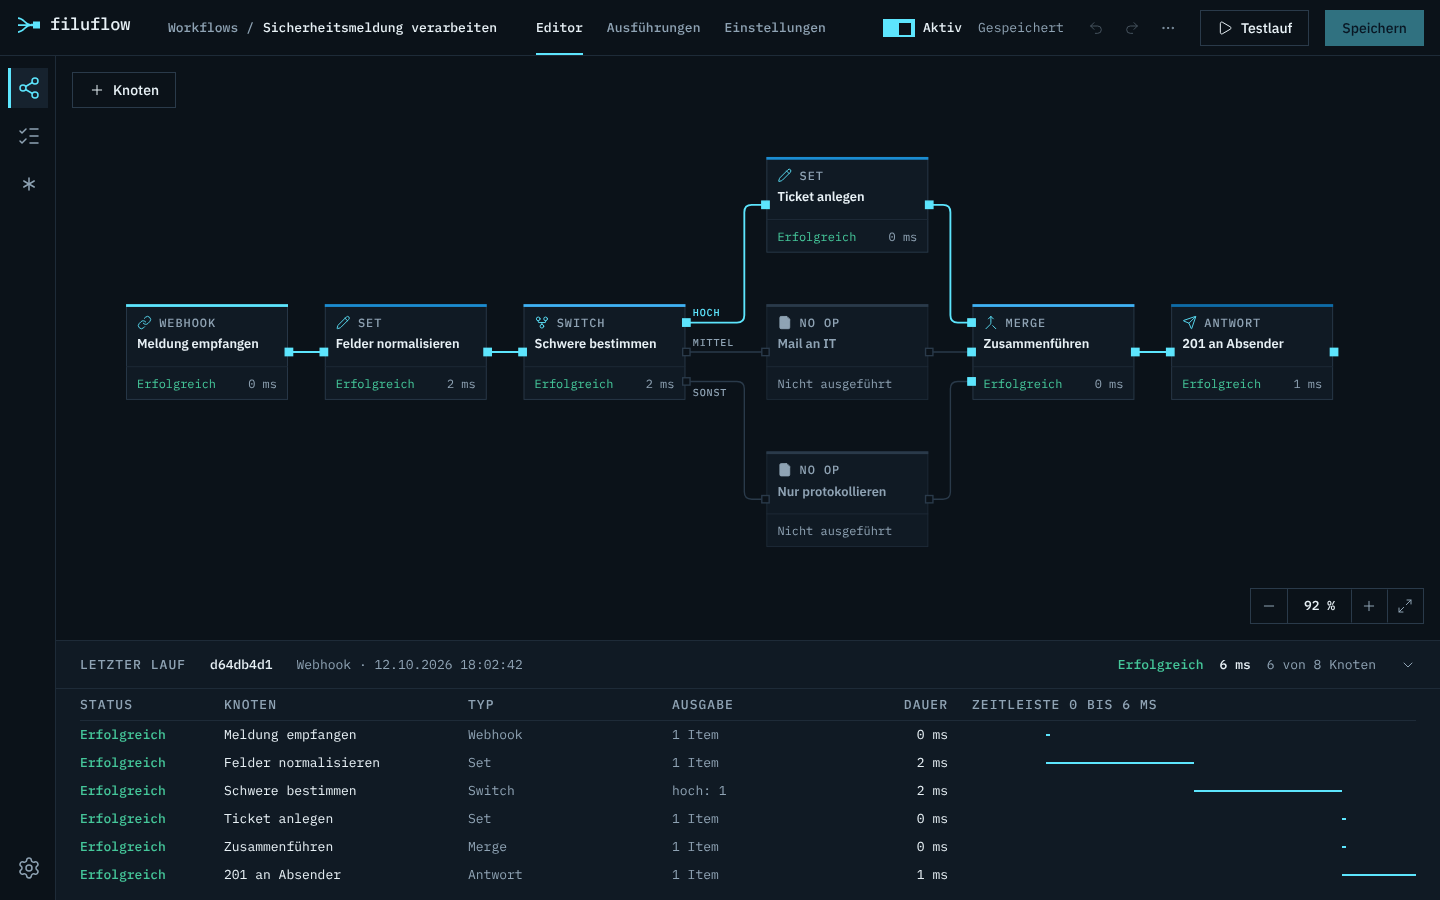
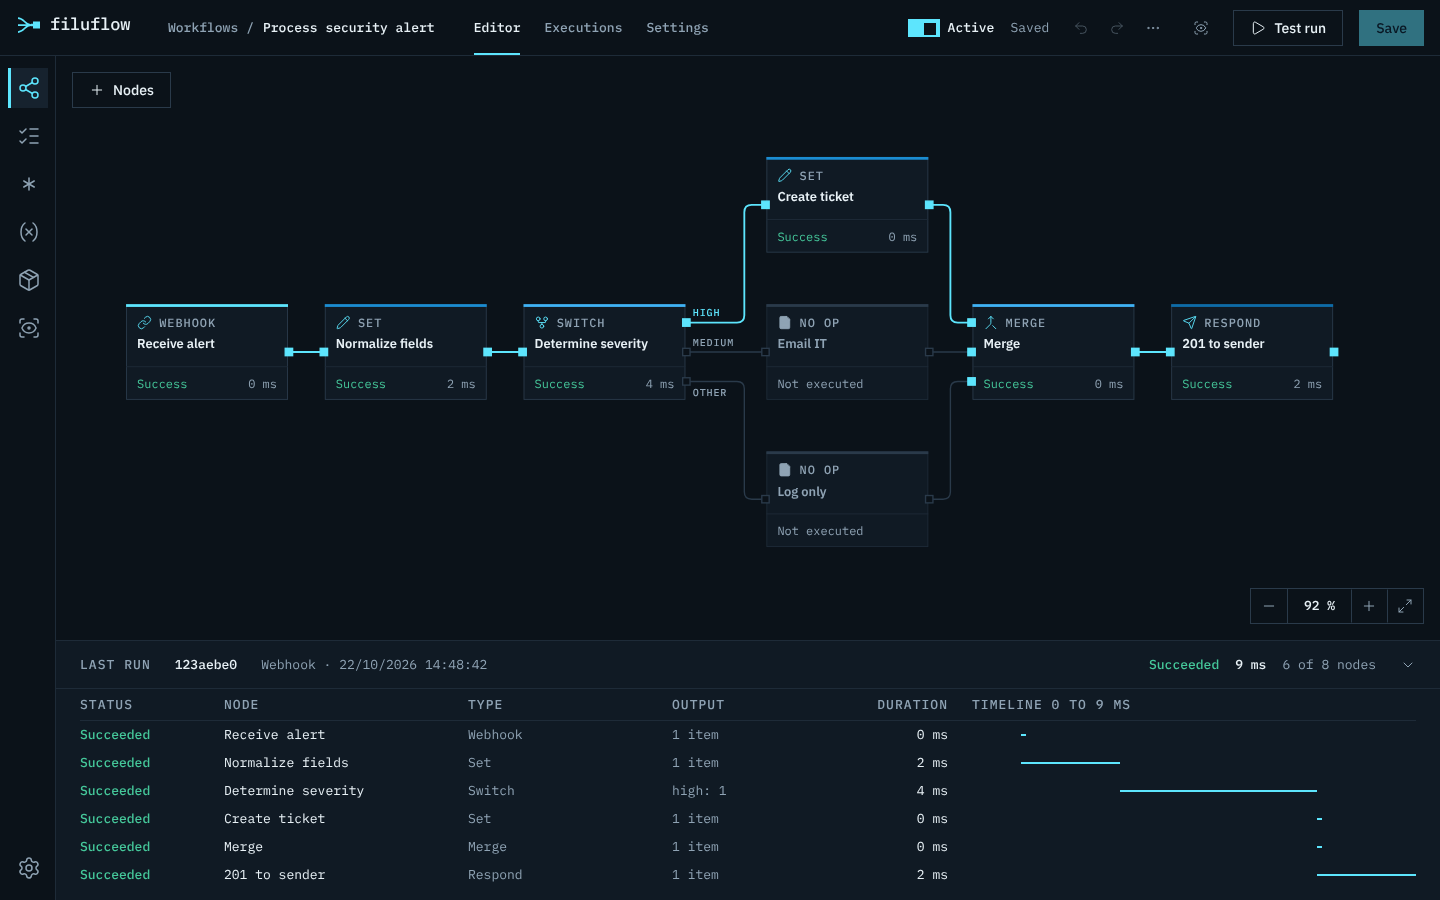
Replace README screenshots with the English interface
Claude-Session: https://claude.ai/code/session_01YL7fKSkUdZMfrd9RABiLgv

diff --git a/README.md b/README.md
@@ -63,8 +63,8 @@ FILUFLOW_API_KEY=secret docker compose up -d --build
 ## Web interface
 
 <p>
-  <img src="docs/assets/uebersicht.png" alt="Overview of all workflows" width="49%">
-  <img src="docs/assets/editor-hell.png" alt="Editor in the light color scheme" width="49%">
+  <img src="docs/assets/overview.png" alt="Overview of all workflows" width="49%">
+  <img src="docs/assets/editor-light.png" alt="Editor in the light color scheme" width="49%">
 </p>
 
 - **Workflows:** metrics (active workflows, executions and errors of the last 14 days, utilization), search and filters
